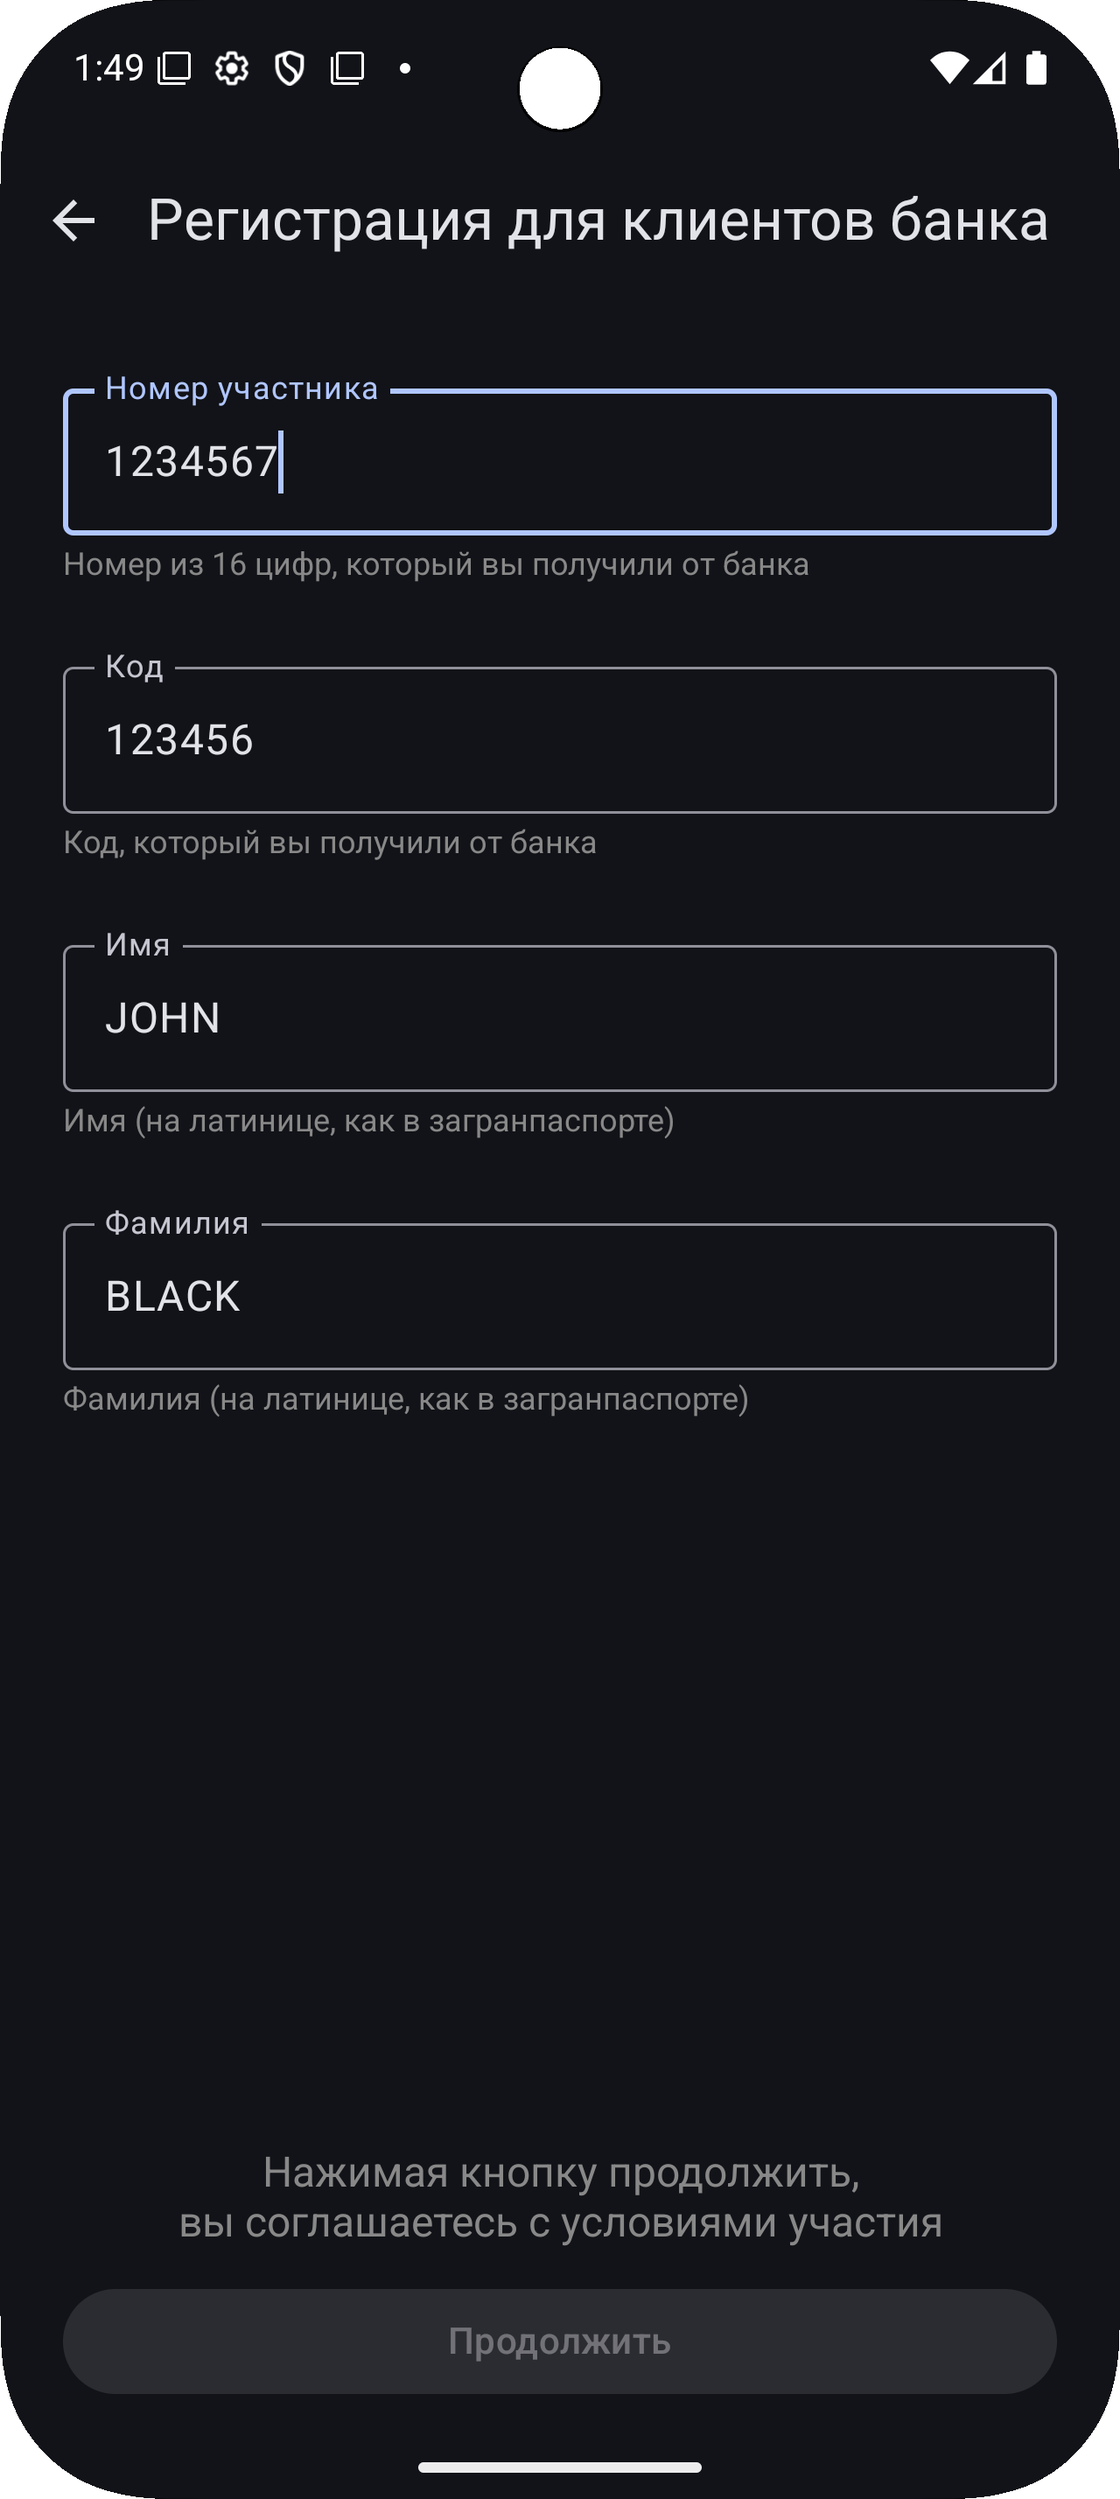
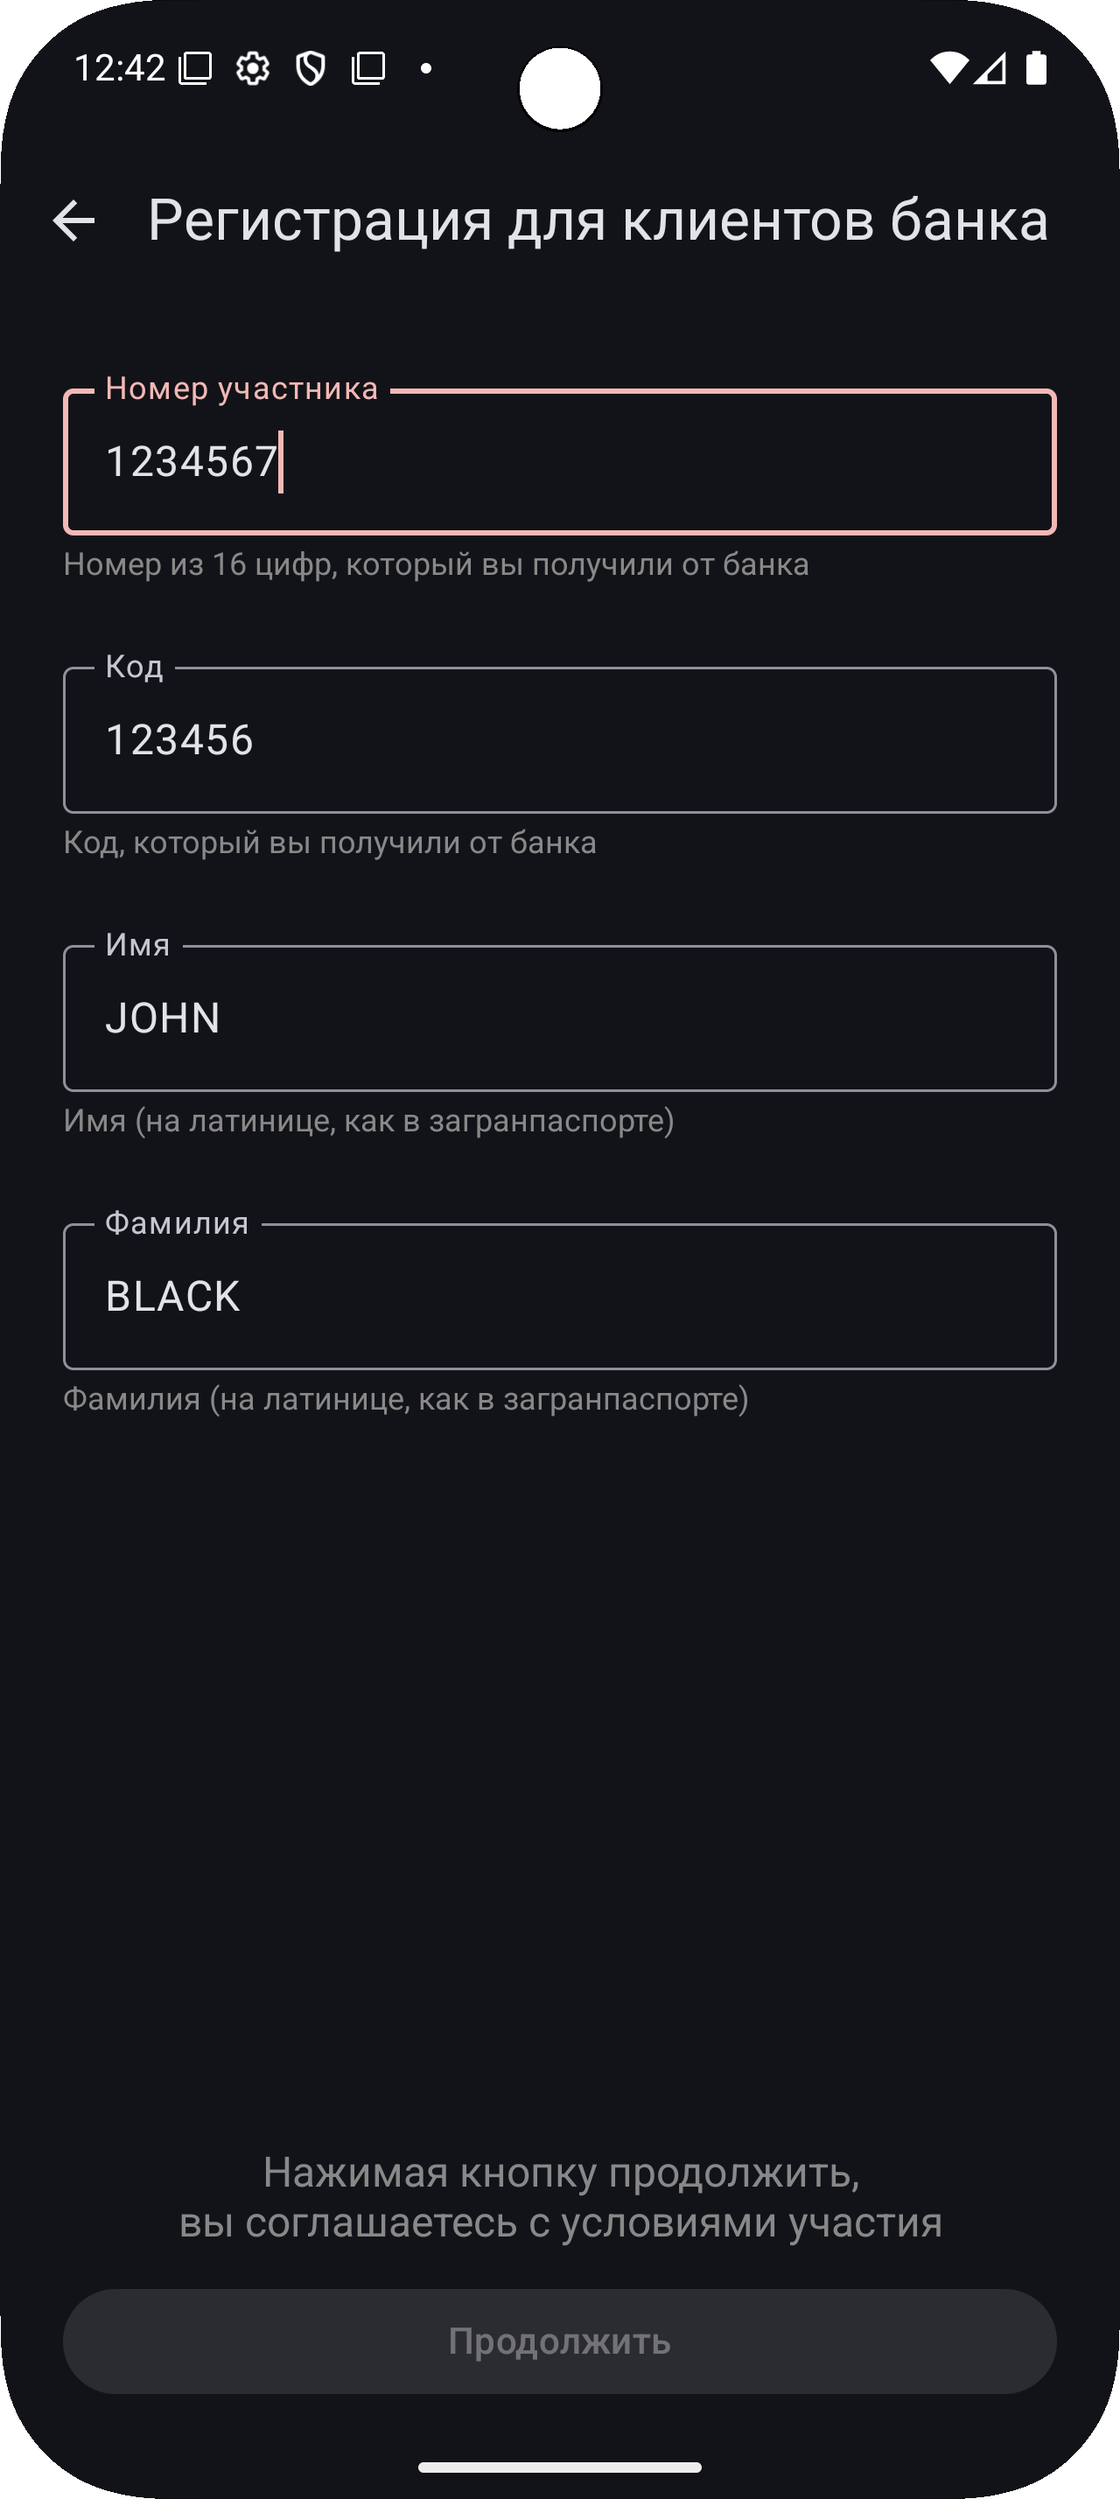
feat: Implement input field focus tracking and validation UI
This commit introduces focus tracking for input fields in the registration screen and enhances the UI to display validation errors.

Key changes:
- **RegistrationViewModel.kt:**
    - Modified `RegistrationUiState` to use `FieldState` for each input field, encapsulating text, focus status, and whether the field was previously focused.
    - Added `handleIntent` cases for focus change events (e.g., `NameFocusChanged`).
    - Implemented `updateFocusState` to manage `isFocused` and `wasFocused` properties of `FieldState`.
    - `updateState` and `saveUser` methods now work with `FieldState.text`.
    - User data loading in `init` now populates `FieldState` instances.
- **RegistrationUiState.kt:**
    - Input fields (`name`, `surname`, `code`, `participantNumber`) are now of type `FieldState`.
    - `isValid` logic updated to use `FieldState` properties (`isNotEmpty`, `isDigit`, `length`).
- **RegistrationIntent.kt:**
    - Added new intent types for focus changes: `NameFocusChanged`, `SurnameFocusChanged`, `CodeFocusChanged`, `ParticipantNumberFocusChanged`.
    - Changed `RegistrationIntent` from a `sealed class` to a `sealed interface`.
- **RegistrationScreen.kt:**
    - `InputSection` now accepts `fieldState: FieldState` and `onFocusChange: (Boolean) -> Unit`.
    - `OutlinedTextField`'s `modifier` now includes `.onFocusChanged { onFocusChange(it.isFocused) }`.
[…]

diff --git a/app/src/main/java/com/hsact/userformpurchasesapp/ui/screens/registration/RegistrationScreen.kt b/app/src/main/java/com/hsact/userformpurchasesapp/ui/screens/registration/RegistrationScreen.kt
@@ -14,6 +14,7 @@ import androidx.compose.runtime.collectAsState
 import androidx.compose.runtime.getValue
 import androidx.compose.ui.Alignment
 import androidx.compose.ui.Modifier
+import androidx.compose.ui.focus.onFocusChanged
 import androidx.compose.ui.graphics.Color
 import androidx.compose.ui.res.stringResource
 import androidx.compose.ui.text.TextStyle
@@ -24,6 +25,10 @@ import androidx.compose.ui.unit.dp
 import androidx.compose.ui.unit.sp
 import androidx.hilt.navigation.compose.hiltViewModel
 import com.hsact.userformpurchasesapp.R
+import com.hsact.userformpurchasesapp.ui.screens.registration.field.FieldInputMaxLength
+import com.hsact.userformpurchasesapp.ui.screens.registration.field.FieldInputType
+import com.hsact.userformpurchasesapp.ui.screens.registration.field.FieldState
+import com.hsact.userformpurchasesapp.ui.screens.registration.field.FieldType
 
 @Composable
 fun RegistrationScreen(
@@ -40,36 +45,50 @@ fun RegistrationScreen(
     Column(modifier = Modifier.fillMaxSize(), horizontalAlignment = Alignment.CenterHorizontally) {
         Spacer(modifier = Modifier.height(24.dp))
         InputSection(
+            fieldType = FieldType.ParticipantNumber,
             inputType = FieldInputType.Number,
-            value = uiState.participantNumber,
+            fieldState = uiState.participantNumber,
             onValueChange = { viewModel.handleIntent(RegistrationIntent.ParticipantNumberChanged(it)) },
+            onFocusChange = {
+                viewModel.handleIntent(
+                    RegistrationIntent.ParticipantNumberFocusChanged(
+                        it
+                    )
+                )
+            },
             label = stringResource(R.string.participant_number),
             helperText = stringResource(R.string.number_that_you_recived),
             maxLength = FieldInputMaxLength.ParticipantNumber.value
         )
         Spacer(modifier = Modifier.height(24.dp))
         InputSection(
+            fieldType = FieldType.Code,
             inputType = FieldInputType.Number,
-            value = uiState.code,
+            fieldState = uiState.code,
             onValueChange = { viewModel.handleIntent(RegistrationIntent.CodeChanged(it)) },
+            onFocusChange = { viewModel.handleIntent(RegistrationIntent.CodeFocusChanged(it)) },
             label = stringResource(R.string.code),
             helperText = stringResource(R.string.code_that_you_recived),
             maxLength = FieldInputMaxLength.Code.value
         )
         Spacer(modifier = Modifier.height(24.dp))
         InputSection(
+            fieldType = FieldType.Name,
             inputType = FieldInputType.LatinLetters,
-            value = uiState.name,
+            fieldState = uiState.name,
             onValueChange = { viewModel.handleIntent(RegistrationIntent.NameChanged(it)) },
+            onFocusChange = { viewModel.handleIntent(RegistrationIntent.NameFocusChanged(it)) },
             label = stringResource(R.string.name),
             helperText = stringResource(R.string.name) + " " + stringResource(R.string.as_in_passort),
             maxLength = FieldInputMaxLength.Name.value
         )
         Spacer(modifier = Modifier.height(24.dp))
         InputSection(
+            fieldType = FieldType.Surname,
             inputType = FieldInputType.LatinLetters,
-            value = uiState.surname,
+            fieldState = uiState.surname,
             onValueChange = { viewModel.handleIntent(RegistrationIntent.SurnameChanged(it)) },
+            onFocusChange = { viewModel.handleIntent(RegistrationIntent.SurnameFocusChanged(it)) },
             label = stringResource(R.string.surname),
             helperText = stringResource(R.string.surname) + " " + stringResource(R.string.as_in_passort),
             maxLength = FieldInputMaxLength.Surname.value
@@ -96,19 +115,26 @@ fun RegistrationScreen(
 @Composable
 private fun InputSection(
     modifier: Modifier = Modifier,
+    fieldType: FieldType,
     inputType: FieldInputType,
-    value: String,
+    fieldState: FieldState,
     onValueChange: (String) -> Unit,
+    onFocusChange: (Boolean) -> Unit,
     label: String,
     helperText: String,
     maxLength: Int,
 ) {
 
-    val filteredValue = filterInput(value, inputType)
+    val filteredValue = filterInput(fieldState.text, inputType)
 
-    if (filteredValue != value) {
+    if (filteredValue != fieldState.text) {
         onValueChange(filteredValue)
         return
+    }
+
+    val isInvalid = fieldState.wasFocused && when (fieldType) {
+        FieldType.ParticipantNumber -> fieldState.text.length != FieldInputMaxLength.ParticipantNumber.value
+        else -> fieldState.text.isEmpty()
     }
 
     val keyboardOptions = when (inputType) {
@@ -125,13 +151,16 @@ private fun InputSection(
 
     Column(modifier = modifier.fillMaxWidth()) {
         OutlinedTextField(
-            value = if (inputType == FieldInputType.LatinLetters) value.uppercase() else value,
+            value = if (inputType == FieldInputType.LatinLetters) fieldState.text.uppercase() else fieldState.text,
             onValueChange = { newValue ->
                 val filtered = filterInput(newValue, inputType).take(maxLength)
                 onValueChange(filtered)
             },
             label = { Text(text = label) },
-            modifier = Modifier.fillMaxWidth(),
+            isError = isInvalid,
+            modifier = Modifier
+                .fillMaxWidth()
+                .onFocusChanged { onFocusChange(it.isFocused) },
             keyboardOptions = keyboardOptions
         )
         Spacer(modifier = Modifier.height(4.dp))

diff --git a/app/src/main/java/com/hsact/userformpurchasesapp/ui/screens/registration/RegistrationViewModel.kt b/app/src/main/java/com/hsact/userformpurchasesapp/ui/screens/registration/RegistrationViewModel.kt
@@ -5,6 +5,8 @@ import androidx.lifecycle.viewModelScope
 import com.hsact.domain.model.UserData
 import com.hsact.domain.usecase.userdata.GetUserDataUseCase
 import com.hsact.domain.usecase.userdata.SaveUserDataUseCase
+import com.hsact.userformpurchasesapp.ui.screens.registration.field.FieldState
+import com.hsact.userformpurchasesapp.ui.screens.registration.field.FieldType
 import dagger.hilt.android.lifecycle.HiltViewModel
 import kotlinx.coroutines.flow.MutableStateFlow
 import kotlinx.coroutines.flow.StateFlow
@@ -17,7 +19,7 @@ import javax.inject.Inject
 class RegistrationViewModel @Inject constructor(
     private val getUserDataUseCase: GetUserDataUseCase,
     private val saveUserDataUseCase: SaveUserDataUseCase
-) : ViewModel(){
+) : ViewModel() {
     private val _uiState = MutableStateFlow(RegistrationUiState())
     val uiState: StateFlow<RegistrationUiState> = _uiState
 
@@ -28,10 +30,10 @@ class RegistrationViewModel @Inject constructor(
                 .firstOrNull()
                 ?.let { userData ->
                     _uiState.value = _uiState.value.copy(
-                        name = userData.name,
-                        surname = userData.surname,
-                        code = userData.code,
-                        participantNumber = userData.participantNumber
+                        name = FieldState(userData.name),
+                        surname = FieldState(userData.surname),
+                        code = FieldState(userData.code),
+                        participantNumber = FieldState(userData.participantNumber)
                     )
                 }
         }
@@ -40,10 +42,64 @@ class RegistrationViewModel @Inject constructor(
     fun handleIntent(event: RegistrationIntent) {
         when (event) {
             is RegistrationIntent.NameChanged -> updateState(name = event.value)
+            is RegistrationIntent.NameFocusChanged -> updateFocusState(
+                FieldType.Name,
+                event.isFocused
+            )
+
             is RegistrationIntent.SurnameChanged -> updateState(surname = event.value)
+            is RegistrationIntent.SurnameFocusChanged -> updateFocusState(
+                FieldType.Surname,
+                event.isFocused
+            )
+
             is RegistrationIntent.CodeChanged -> updateState(code = event.value)
+            is RegistrationIntent.CodeFocusChanged -> updateFocusState(
+                FieldType.Code,
+                event.isFocused
+            )
+
             is RegistrationIntent.ParticipantNumberChanged -> updateState(participantNumber = event.value)
+            is RegistrationIntent.ParticipantNumberFocusChanged -> updateFocusState(
+                FieldType.ParticipantNumber,
+                event.isFocused
+            )
+
             is RegistrationIntent.SubmitClicked -> saveUser()
+        }
+    }
+
+    private fun updateFocusState(field: FieldType, isFocused: Boolean) {
+        _uiState.value = _uiState.value.run {
+            when (field) {
+                FieldType.Name -> copy(
+                    name = name.copy(
+                        isFocused = isFocused,
+                        wasFocused = name.wasFocused || (!isFocused && name.isFocused)
+                    )
+                )
+
+                FieldType.Surname -> copy(
+                    surname = surname.copy(
+                        isFocused = isFocused,
+                        wasFocused = surname.wasFocused || (!isFocused && surname.isFocused)
+                    )
+                )
+
+                FieldType.Code -> copy(
+                    code = code.copy(
+                        isFocused = isFocused,
+                        wasFocused = code.wasFocused || (!isFocused && code.isFocused)
+                    )
+                )
+
+                FieldType.ParticipantNumber -> copy(
+                    participantNumber = participantNumber.copy(
+                        isFocused = isFocused,
+                        wasFocused = participantNumber.wasFocused || (!isFocused && participantNumber.isFocused)
+                    )
+                )
+            }
         }
     }
 
@@ -54,23 +110,23 @@ class RegistrationViewModel @Inject constructor(
         participantNumber: String? = null
     ) {
         val current = _uiState.value
-        val newState = current.copy(
-            name = name ?: current.name,
-            surname = surname ?: current.surname,
-            code = code ?: current.code,
-            participantNumber = participantNumber ?: current.participantNumber
+        _uiState.value = current.copy(
+            name = name?.let { current.name.copy(text = it) } ?: current.name,
+            surname = surname?.let { current.surname.copy(text = it) } ?: current.surname,
+            code = code?.let { current.code.copy(text = it) } ?: current.code,
+            participantNumber = participantNumber?.let { current.participantNumber.copy(text = it) }
+                ?: current.participantNumber
         )
-        _uiState.value = newState.copy()
     }
 
     private fun saveUser() {
         viewModelScope.launch {
             val user = with(_uiState.value) {
                 UserData(
-                    name = name,
-                    surname = surname,
-                    code = code,
-                    participantNumber = participantNumber
+                    name = name.text,
+                    surname = surname.text,
+                    code = code.text,
+                    participantNumber = participantNumber.text
                 )
             }
             saveUserDataUseCase(user)

diff --git a/app/src/main/java/com/hsact/userformpurchasesapp/ui/screens/registration/RegistrationIntent.kt b/app/src/main/java/com/hsact/userformpurchasesapp/ui/screens/registration/RegistrationIntent.kt
@@ -1,9 +1,17 @@
 package com.hsact.userformpurchasesapp.ui.screens.registration
 
-sealed class RegistrationIntent {
-    data class NameChanged(val value: String) : RegistrationIntent()
-    data class SurnameChanged(val value: String) : RegistrationIntent()
-    data class CodeChanged(val value: String) : RegistrationIntent()
-    data class ParticipantNumberChanged(val value: String) : RegistrationIntent()
-    object SubmitClicked : RegistrationIntent()
+sealed interface RegistrationIntent {
+    data class NameChanged(val value: String) : RegistrationIntent
+    data class NameFocusChanged(val isFocused: Boolean) : RegistrationIntent
+
+    data class SurnameChanged(val value: String) : RegistrationIntent
+    data class SurnameFocusChanged(val isFocused: Boolean) : RegistrationIntent
+
+    data class CodeChanged(val value: String) : RegistrationIntent
+    data class CodeFocusChanged(val isFocused: Boolean) : RegistrationIntent
+
+    data class ParticipantNumberChanged(val value: String) : RegistrationIntent
+    data class ParticipantNumberFocusChanged(val isFocused: Boolean) : RegistrationIntent
+
+    object SubmitClicked : RegistrationIntent
 }

diff --git a/app/src/main/java/com/hsact/userformpurchasesapp/ui/screens/registration/RegistrationUiState.kt b/app/src/main/java/com/hsact/userformpurchasesapp/ui/screens/registration/RegistrationUiState.kt
@@ -1,16 +1,19 @@
 package com.hsact.userformpurchasesapp.ui.screens.registration
 
+import com.hsact.userformpurchasesapp.ui.screens.registration.field.FieldInputMaxLength
+import com.hsact.userformpurchasesapp.ui.screens.registration.field.FieldState
+
 data class RegistrationUiState(
-    val name: String = "",
-    val surname: String = "",
-    val code: String = "",
-    val participantNumber: String = "",
+    val name: FieldState = FieldState(),
+    val surname: FieldState = FieldState(),
+    val code: FieldState = FieldState(),
+    val participantNumber: FieldState = FieldState(),
     val isFinished: Boolean = false
 ) {
     val isValid: Boolean
-        get() = name.isNotBlank() &&
-                surname.isNotBlank() &&
-                code.isNotBlank() &&
+        get() = name.isNotEmpty &&
+                surname.isNotEmpty &&
+                code.isNotEmpty &&
                 participantNumber.length == FieldInputMaxLength.ParticipantNumber.value &&
-                participantNumber.all { it.isDigit() }
+                participantNumber.isDigit
 }

diff --git a/app/src/main/java/com/hsact/userformpurchasesapp/ui/screens/registration/field/FieldState.kt b/app/src/main/java/com/hsact/userformpurchasesapp/ui/screens/registration/field/FieldState.kt
@@ -1,0 +1,16 @@
+package com.hsact.userformpurchasesapp.ui.screens.registration.field
+
+data class FieldState(
+    val text: String = "",
+    val isFocused: Boolean = false,
+    val wasFocused: Boolean = false
+) {
+    val isDigit: Boolean
+        get() = text.all { it.isDigit() }
+
+    val isNotEmpty: Boolean
+        get() = text.isNotEmpty()
+
+    val length: Int
+        get() = text.length
+}

diff --git a/app/src/main/java/com/hsact/userformpurchasesapp/ui/screens/registration/field/FieldInputMaxLength.kt b/app/src/main/java/com/hsact/userformpurchasesapp/ui/screens/registration/field/FieldInputMaxLength.kt
@@ -1,4 +1,4 @@
-package com.hsact.userformpurchasesapp.ui.screens.registration
+package com.hsact.userformpurchasesapp.ui.screens.registration.field
 
 internal enum class FieldInputMaxLength(val value: Int) {
     ParticipantNumber(16),

diff --git a/app/src/main/java/com/hsact/userformpurchasesapp/ui/screens/registration/field/FieldType.kt b/app/src/main/java/com/hsact/userformpurchasesapp/ui/screens/registration/field/FieldType.kt
@@ -1,0 +1,8 @@
+package com.hsact.userformpurchasesapp.ui.screens.registration.field
+
+internal enum class FieldType {
+    Name,
+    Surname,
+    Code,
+    ParticipantNumber
+}

diff --git a/app/src/main/java/com/hsact/userformpurchasesapp/ui/screens/registration/field/FieldInputType.kt b/app/src/main/java/com/hsact/userformpurchasesapp/ui/screens/registration/field/FieldInputType.kt
@@ -1,0 +1,6 @@
+package com.hsact.userformpurchasesapp.ui.screens.registration.field
+
+internal enum class FieldInputType {
+    Number,
+    LatinLetters
+}
